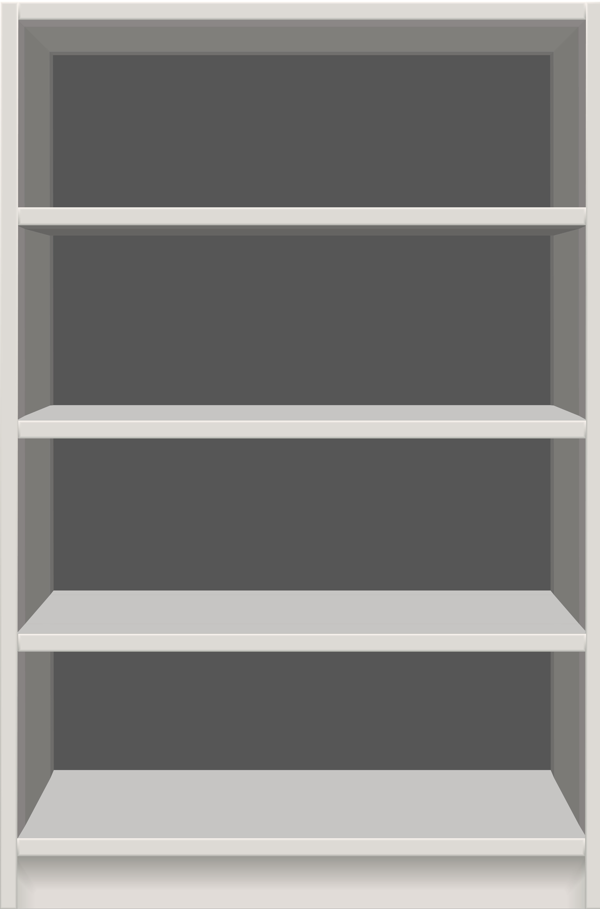
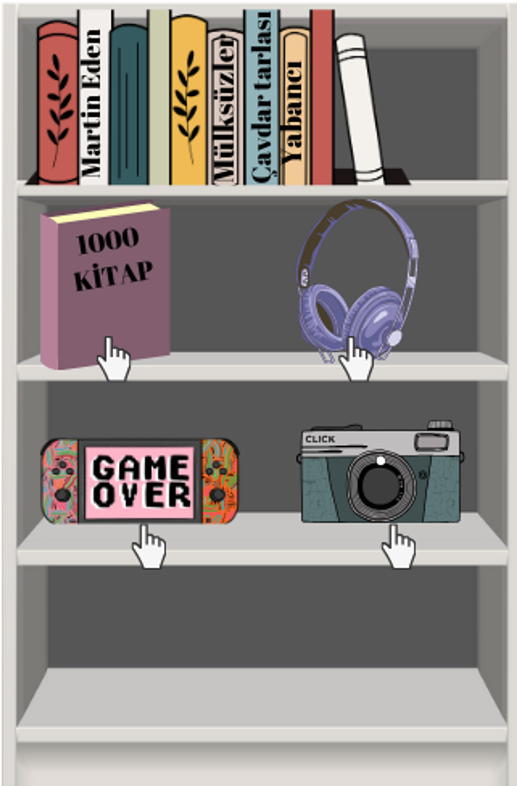
filled the bookshelf

diff --git a/style.css b/style.css
@@ -23,7 +23,7 @@ body {
     display: flex; /* Flexbox for side-by-side layout */
     justify-content: center; /* Center images horizontally */
     align-items: center; /* Align images vertically */
-    gap: 130px; /* Space between images */
+    gap: 150px; /* Space between images */
     width: 100%; /* Ensure the container takes up the full width */
     max-width: 1000px; /* Increase max-width to accommodate larger images */
 }
@@ -36,12 +36,12 @@ body {
 }
 
 .ben {
-    max-width: 100%; /* Make the image smaller */
+    max-width: 120%; /* Make the image smaller */
     height: auto;
 }
 
 .hi {
-    max-width: 100%; /* Adjust size as needed */
+    max-width: 120%; /* Adjust size as needed */
     height: auto;
     margin-top: -40px; /* Adjust this value to create more space between images */
 }
@@ -50,8 +50,8 @@ body {
     max-width: 30%; /* Make the image smaller */
     height: auto;
 }
-.trivia, .like {
-    max-width: 130%; /* Adjust size as needed */
+.trivia, .like, .born {
+    max-width: 170%; /* Adjust size as needed */
     height: auto;
     margin-bottom: 10px;
 }

diff --git a/index.html b/index.html
@@ -19,6 +19,7 @@
             <img src="images/ben.png" alt="ben" class="ben">
         </div>
         <div class="balloon-wrapper">
+        <img src="images/born in.png" alt="born" class="born">
         <img src="images/Trivia.png" alt="trivia" class="trivia">
         <img src="images/I like-Photoroom.png" alt="like" class="like">
     </div>
